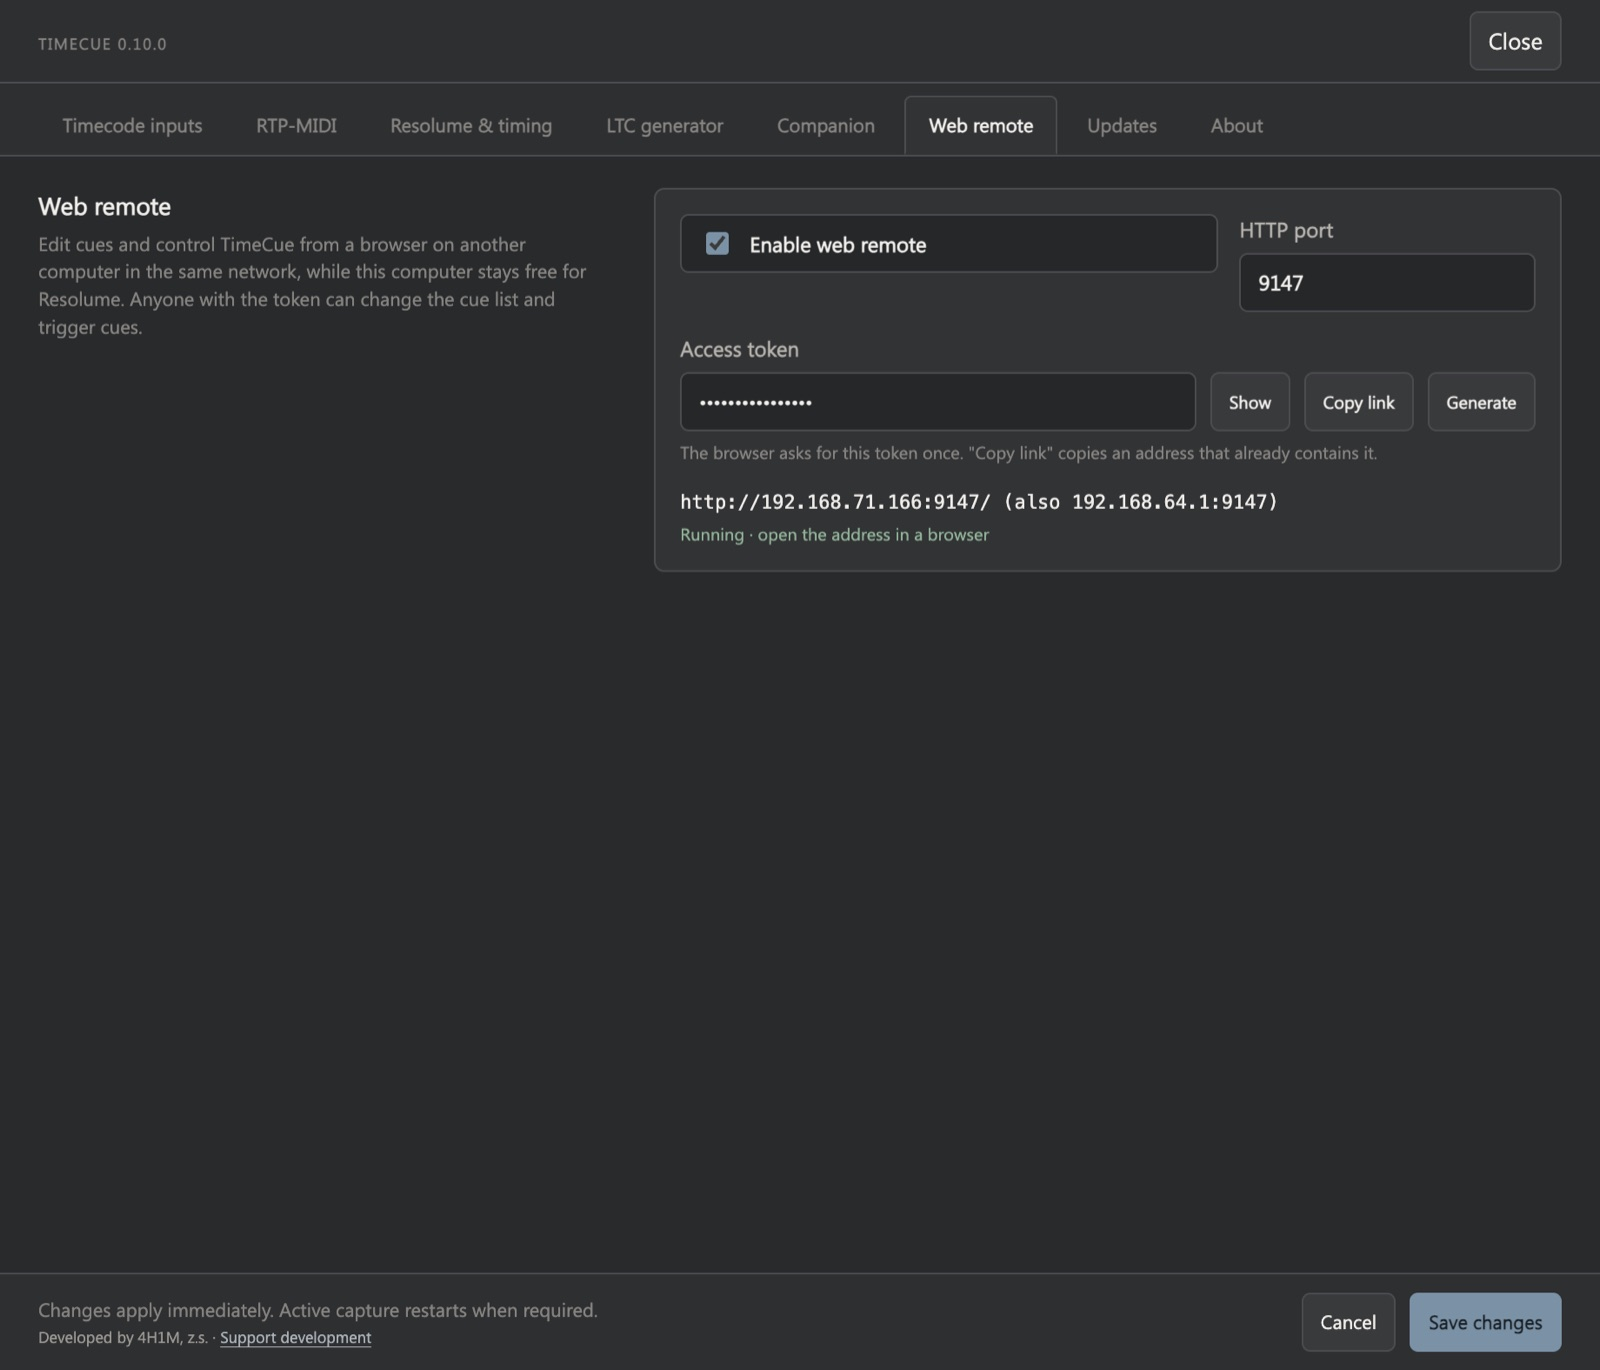
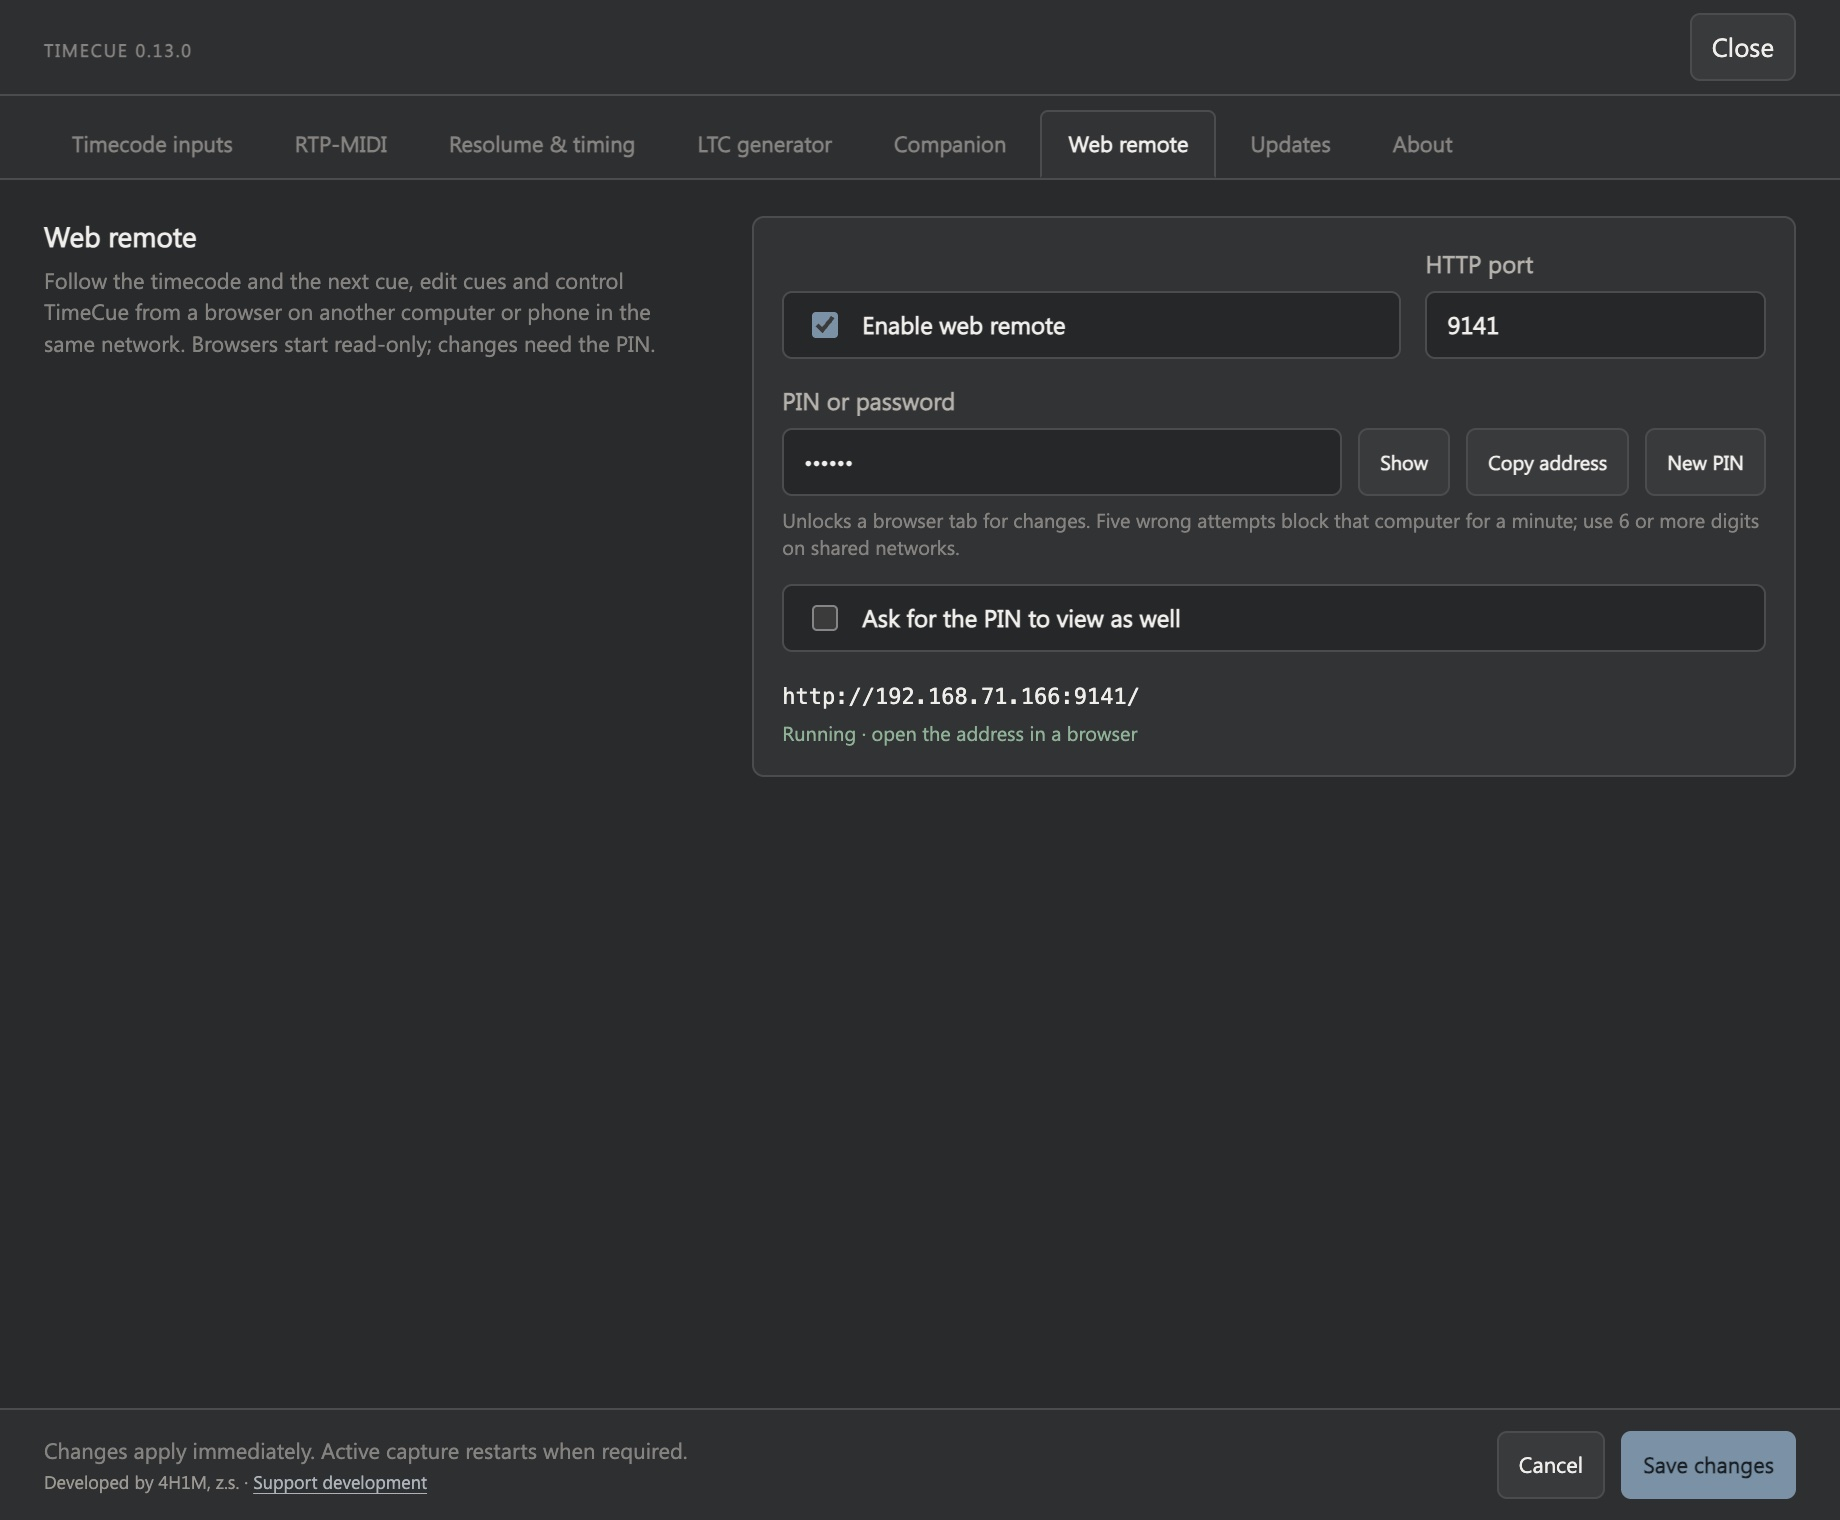
README: TimeCue 0.13.0 (web remote for following a show, PIN unlock)

diff --git a/README.md b/README.md
@@ -10,11 +10,11 @@
 </p>
 
 <p align="center">
-  <a href="https://github.com/4H1Mzs/TimeCue-Releases/releases/latest"><img alt="Download" src="https://img.shields.io/badge/download-TimeCue%200.12.3-5c8cff?style=for-the-badge"></a>
+  <a href="https://github.com/4H1Mzs/TimeCue-Releases/releases/latest"><img alt="Download" src="https://img.shields.io/badge/download-TimeCue%200.13.0-5c8cff?style=for-the-badge"></a>
 </p>
 
 <p align="center">
-  <img alt="Version 0.12.3" src="https://img.shields.io/badge/version-0.12.3-5c8cff">
+  <img alt="Version 0.13.0" src="https://img.shields.io/badge/version-0.13.0-5c8cff">
   <img alt="Windows macOS Linux" src="https://img.shields.io/badge/platform-Windows%20%7C%20macOS%20%7C%20Linux-30343b">
   <img alt="Resolume Arena 7.23–7.28" src="https://img.shields.io/badge/Resolume%20Arena-7.23%E2%80%937.28-d0473b">
   <img alt="Status Preview" src="https://img.shields.io/badge/status-preview-e7a84b">
@@ -49,6 +49,14 @@ Get **[the latest TimeCue release](https://github.com/4H1Mzs/TimeCue-Releases/re
 > [!IMPORTANT]
 > TimeCue is preview software. Test the exact build, audio interface, timecode source and Resolume composition before using it in a live show.
 
+## What's new in 0.13
+
+### A web remote you can leave open
+
+Follow the show from another computer, a tablet or a phone. The timecode is large and runs smoothly even over Wi-Fi, the next cue with a live countdown is always in view, and the cue list scrolls by itself to keep the next cue visible, with past cues dimmed. Every browser opens **read-only**; controlling TimeCue or editing cues needs the **PIN** set in **Settings → Web remote**, and the link no longer carries a secret. See [Web remote](#web-remote) below.
+
+![TimeCue web remote on a wide screen](docs/screenshots/remote-dashboard.jpg)
+
 ## What's new in 0.12
 
 ### Resolume autosave with backups
@@ -65,9 +73,7 @@ A new **Layer control** target type acts on a whole layer: **Clear** ejects what
 
 ### Web remote
 
-Prepare cues from your own computer while someone else works in Resolume on the show computer. TimeCue serves its Cue Editor and a control page to browsers in the same network: live clock, next and last cue, Resolume status, Listen, Generator, and Fire and Edit for each cue. It is off by default and protected by an access token. See [Web remote](#web-remote) below.
-
-![TimeCue web remote control page in a browser](docs/screenshots/remote-dashboard.jpg)
+Prepare cues from your own computer while someone else works in Resolume on the show computer. TimeCue serves its Cue Editor and a control page to browsers in the same network: live clock, next and last cue, Resolume status, Listen, Generator, and Fire and Edit for each cue. See [Web remote](#web-remote) below.
 
 ## What's new in 0.9
 
@@ -144,10 +150,11 @@ Resolume's API does not report SMPTE offsets, so **Read SMPTE offsets from compo
 
 ### Web remote
 
-- The full Cue Editor in a browser on another computer, including the live parameter picker
-- A control page with live timecode, next and last cue, Resolume status, Fire per cue, Generator and Listen
+- Follow the show from another computer, tablet or phone: large, smooth timecode, the next cue with a countdown, and a cue list that keeps the next cue in view
+- Read-only by default; unlock a browser tab with the PIN to control TimeCue and edit cues
+- The full Cue Editor in the browser, including the live parameter picker
 - Edits from the browser and from TimeCue stay in sync; a stale draft never overwrites newer changes
-- Off by default and token-protected; tokens never leave the TimeCue computer in show files
+- Off by default; the PIN never leaves the TimeCue computer in show files
 
 ### Bitfocus Companion control
 
@@ -192,13 +199,16 @@ Each release includes an offline Companion module, `timecue-<version>.tgz`. Inst
 
 ## Web remote
 
+![Web remote on a phone](docs/screenshots/remote-phone.jpg)
+
+1. On the TimeCue computer, open **Settings → Web remote**, select **Enable web remote**, choose a **PIN or password** (**New PIN** suggests six digits) and **Save changes**.
+2. Select **Copy address** and open it in a browser on the other device. The address contains no secret.
+3. The page opens **read-only**: large timecode, the next cue with a countdown and the cue list, which keeps the next cue in view. Scroll by hand to look around; it follows again after a few seconds or with **Follow**.
+4. To change anything, select **Locked · Unlock** and enter the PIN. That tab can then use Listen, Generator, **Fire** and **Edit**, and **Edit cues** for the whole list. **Lock** or closing the tab makes it read-only again.
+
 ![Cue Editor in the browser](docs/screenshots/remote-editor.jpg)
 
-1. On the TimeCue computer, open **Settings → Web remote**, select **Enable web remote** (a token is generated) and **Save changes**.
-2. Select **Copy link** and open it in a browser on the other computer. The link contains the token, and the browser remembers it.
-3. Use **Fire** to trigger a cue, **Edit** to open it in the Cue Editor, or **Edit cues** for the whole list. **Apply changes** updates TimeCue immediately.
-
-The browser only talks to TimeCue, and TimeCue talks to Resolume with its own address, so Arena's webserver does not need to be reachable from the other computer. Windows asks once whether TimeCue may accept network connections; allow it for private networks. Use the web remote on a trusted show network only: anyone with the token can change cues and trigger them. Generate a new token to sign everyone out.
+The browser only talks to TimeCue, and TimeCue talks to Resolume with its own address, so Arena's webserver does not need to be reachable from the other computer. Windows asks once whether TimeCue may accept network connections; allow it for private networks. Anyone on the network can watch unless **Ask for the PIN to view as well** is on. After five wrong PINs a computer is blocked for a minute; use six or more digits, or a password, on shared networks.
 
 ![Web remote settings](docs/screenshots/settings-remote.jpg)
 
